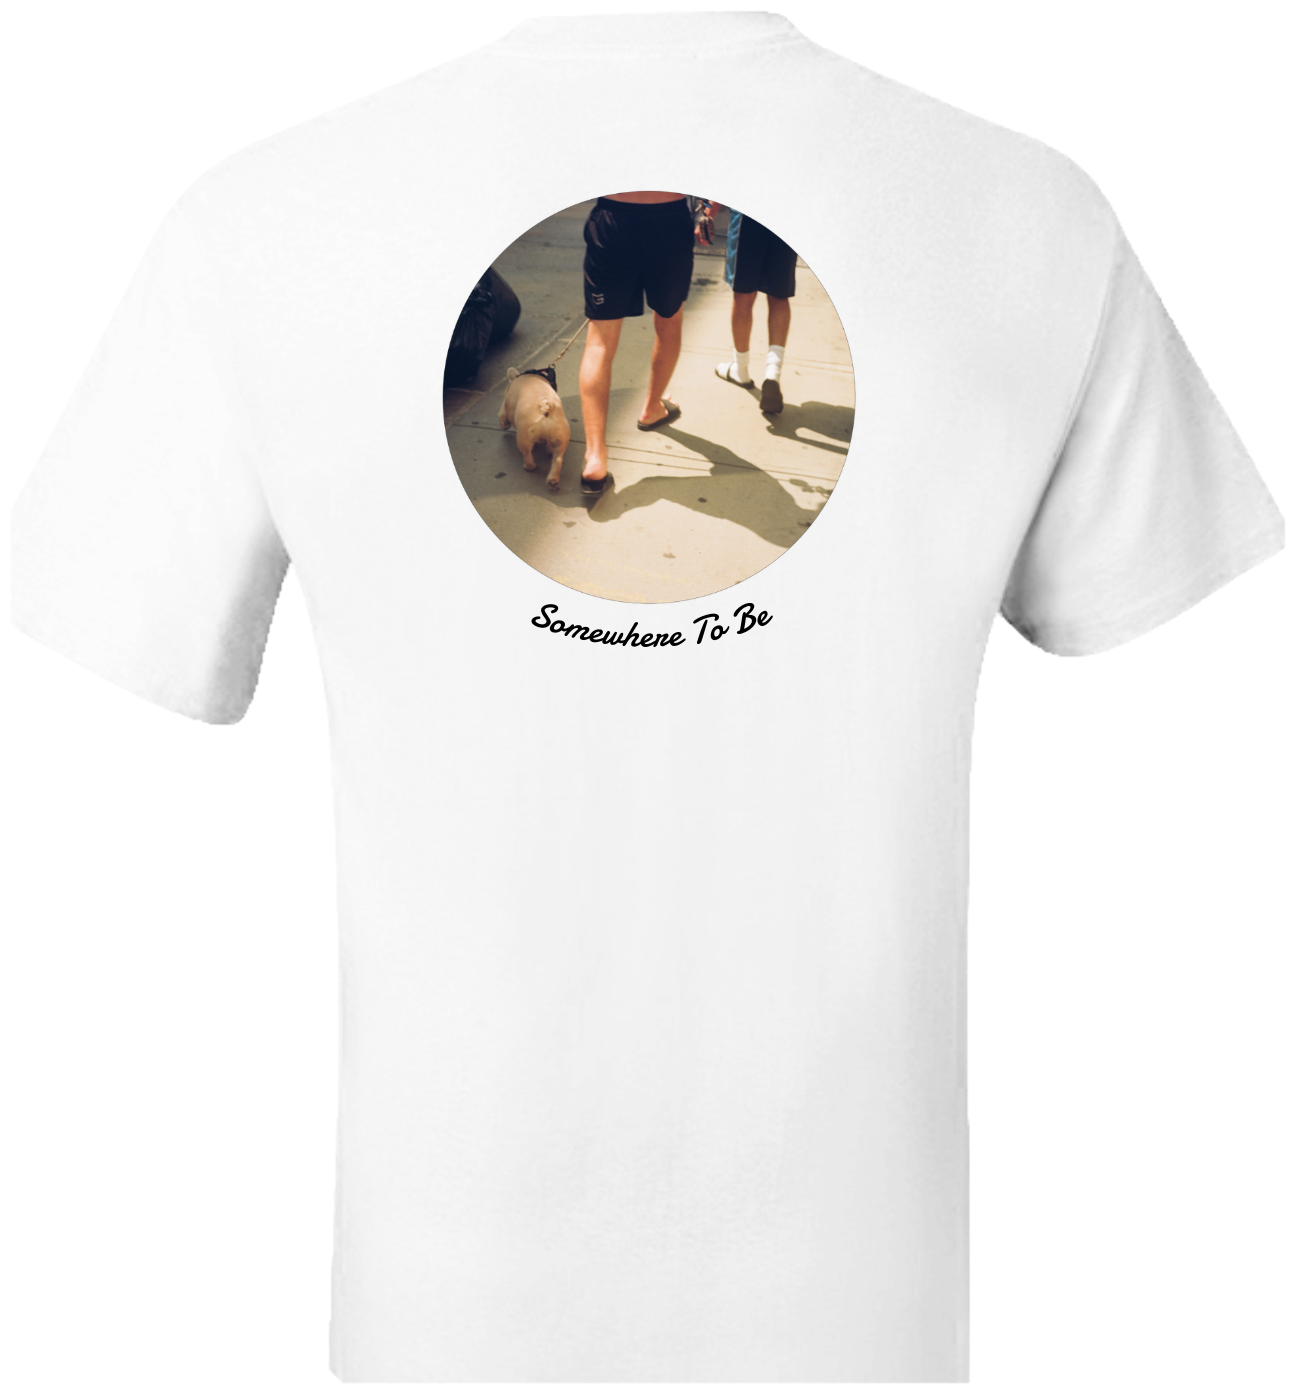
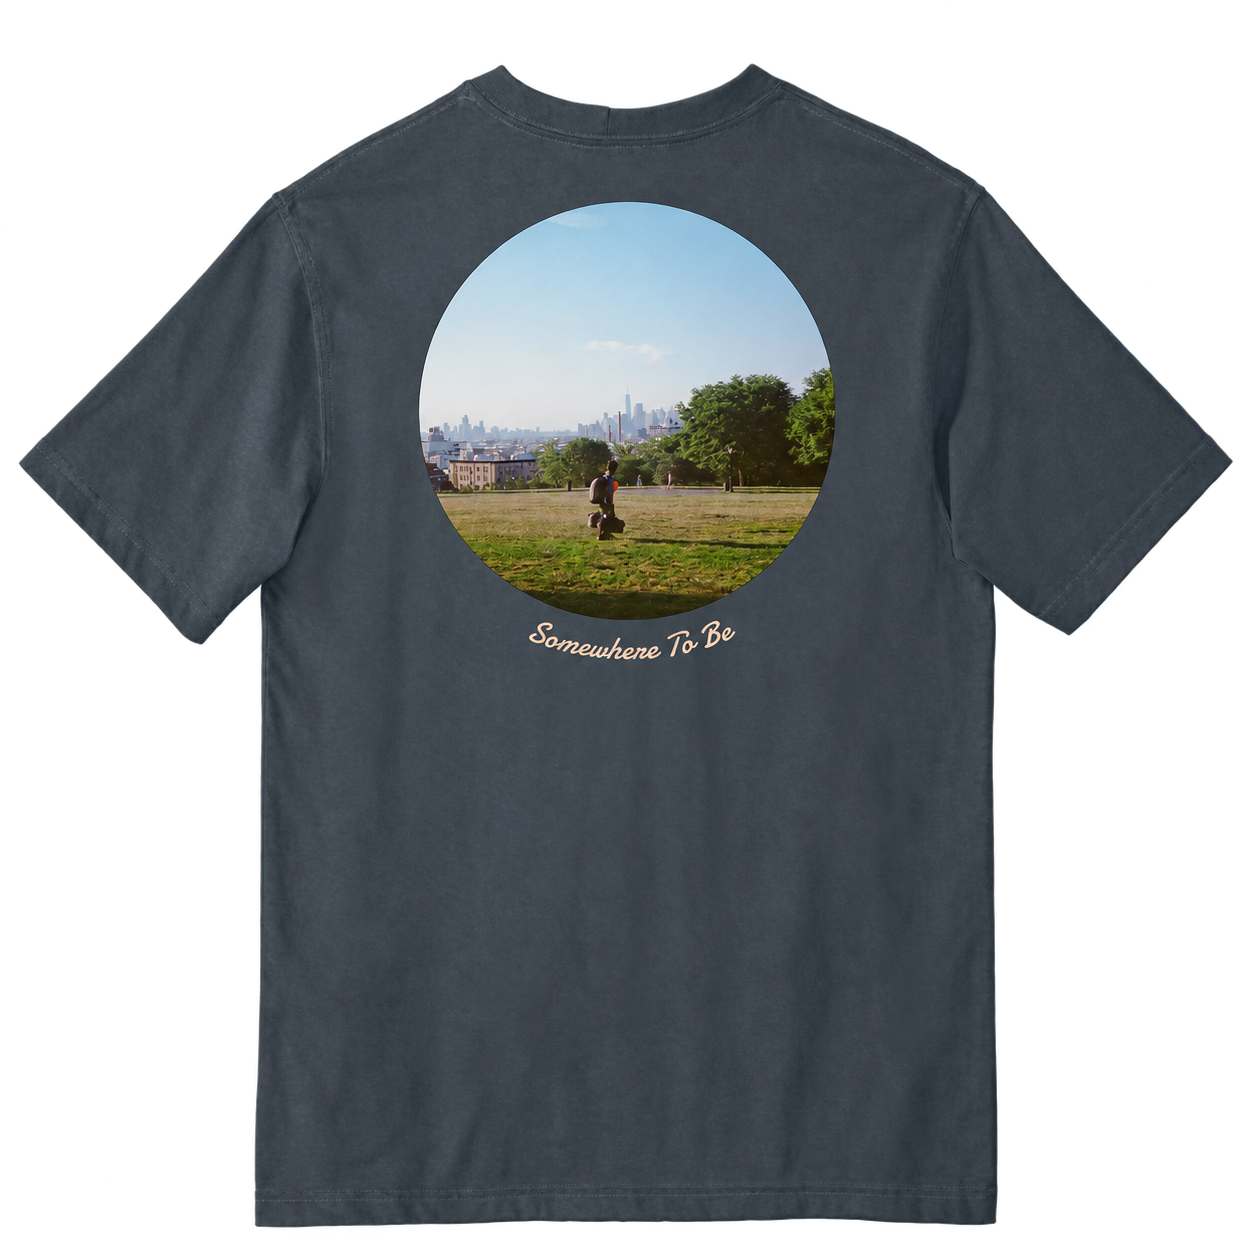
Add files via upload

diff --git a/somewheretobe/index.html b/somewheretobe/index.html
@@ -139,19 +139,19 @@
 <article class="wearable-item-v2" data-tee-item>
 <div class="wearable-visual-v2"
      data-tee-preview
-     data-tee-title="PROJECT TEE 01"
+     data-tee-title="BLACK CARHARTT POCKET TEE"
      data-tee-front="images/wearables/shirt-front-01.png"
      data-tee-back="images/wearables/shirt-back-01.png"
      role="button" tabindex="0"
-     aria-label="View Somewhere to Be tee 01 front and back">
-<img class="summer-tee-main-image" alt="Somewhere to Be project tee 01 back" src="images/wearables/shirt-back-01.png"/>
+     aria-label="View Somewhere to Be black Carhartt tee front and back">
+<img class="summer-tee-main-image" alt="Somewhere to Be black Carhartt pocket tee back" src="images/wearables/shirt-back-01.png"/>
 </div>
 <div class="wearable-meta-v2">
-<p class="product-name">PROJECT TEE 01</p>
-<p class="product-details">SOMEWHERE TO BE</p>
+<p class="product-name">BLACK CARHARTT TEE</p>
+<p class="product-details">SOMEWHERE TO BE / BLACK</p>
 <button class="product-link" type="button"
         data-tee-preview
-        data-tee-title="PROJECT TEE 01"
+        data-tee-title="BLACK CARHARTT POCKET TEE"
         data-tee-front="images/wearables/shirt-front-01.png"
         data-tee-back="images/wearables/shirt-back-01.png">VIEW TEE →</button>
 </div>
@@ -160,21 +160,23 @@
 <article class="wearable-item-v2" data-tee-item>
 <div class="wearable-visual-v2"
      data-tee-preview
-     data-tee-title="PROJECT TEE 02"
-     data-tee-front="images/wearables/shirt-front-02.png"
-     data-tee-back="images/wearables/shirt-back-02.png"
+     data-tee-title="BLUESTONE CARHARTT POCKET TEE"
+     data-tee-front="images/wearables/shirt-front-03.png"
+     data-tee-back="images/wearables/shirt-back-03.png"
+     data-tee-buy-url="https://buy.stripe.com/cNiaEW2FZ8KseB9bzZgIo00"
      role="button" tabindex="0"
-     aria-label="View Somewhere to Be tee 02 front and back">
-<img class="summer-tee-main-image" alt="Somewhere to Be project tee 02 back" src="images/wearables/shirt-back-02.png"/>
+     aria-label="View Somewhere to Be Bluestone Carhartt tee front and back">
+<img class="summer-tee-main-image" alt="Somewhere to Be Bluestone Carhartt pocket tee back" src="images/wearables/shirt-back-03.png"/>
 </div>
 <div class="wearable-meta-v2">
-<p class="product-name">PROJECT TEE 02</p>
-<p class="product-details">SOMEWHERE TO BE</p>
+<p class="product-name">BLUESTONE CARHARTT TEE</p>
+<p class="product-details">SOMEWHERE TO BE / $65</p>
 <button class="product-link" type="button"
         data-tee-preview
-        data-tee-title="PROJECT TEE 02"
-        data-tee-front="images/wearables/shirt-front-02.png"
-        data-tee-back="images/wearables/shirt-back-02.png">VIEW TEE →</button>
+        data-tee-title="BLUESTONE CARHARTT POCKET TEE"
+        data-tee-front="images/wearables/shirt-front-03.png"
+        data-tee-back="images/wearables/shirt-back-03.png"
+        data-tee-buy-url="https://buy.stripe.com/cNiaEW2FZ8KseB9bzZgIo00">VIEW TEE →</button>
 </div>
 </article>
 </div>
@@ -274,9 +276,10 @@
 
         <div class="tee-preview-info">
             <div>
-                <p class="tee-preview-title" id="tee-preview-title">PROJECT TEE 01</p>
+                <p class="tee-preview-title" id="tee-preview-title">BLACK CARHARTT POCKET TEE</p>
                 <p class="tee-preview-project">SOMEWHERE TO BE</p>
             </div>
+            <a class="tee-preview-next" id="tee-preview-buy" href="https://buy.stripe.com/cNiaEW2FZ8KseB9bzZgIo00" hidden>BUY — $65 →</a>
         </div>
     </div>
 

diff --git a/somewheretobe/script.js b/somewheretobe/script.js
@@ -335,6 +335,7 @@ const summerWearablesSection = document.getElementById("wearables");
 const teePreviewFront = document.getElementById("tee-preview-front");
 const teePreviewBack = document.getElementById("tee-preview-back");
 const teePreviewTitle = document.getElementById("tee-preview-title");
+const teePreviewBuy = document.getElementById("tee-preview-buy");
 
 function setupSummerTeeAvailability() {
     if (!summerWearablesSection) return;
@@ -391,6 +392,7 @@ function openTeePreview(trigger) {
     const front = trigger?.dataset?.teeFront;
     const back = trigger?.dataset?.teeBack;
     const title = trigger?.dataset?.teeTitle || "PROJECT TEE";
+    const buyUrl = trigger?.dataset?.teeBuyUrl || "";
 
     if (front && teePreviewFront) {
         teePreviewFront.src = front;
@@ -403,6 +405,16 @@ function openTeePreview(trigger) {
     }
 
     if (teePreviewTitle) teePreviewTitle.textContent = title;
+
+    if (teePreviewBuy) {
+        if (buyUrl) {
+            teePreviewBuy.href = buyUrl;
+            teePreviewBuy.hidden = false;
+        } else {
+            teePreviewBuy.removeAttribute("href");
+            teePreviewBuy.hidden = true;
+        }
+    }
 
     teePreviewModal.classList.add("is-visible");
     teePreviewModal.setAttribute("aria-hidden", "false");
